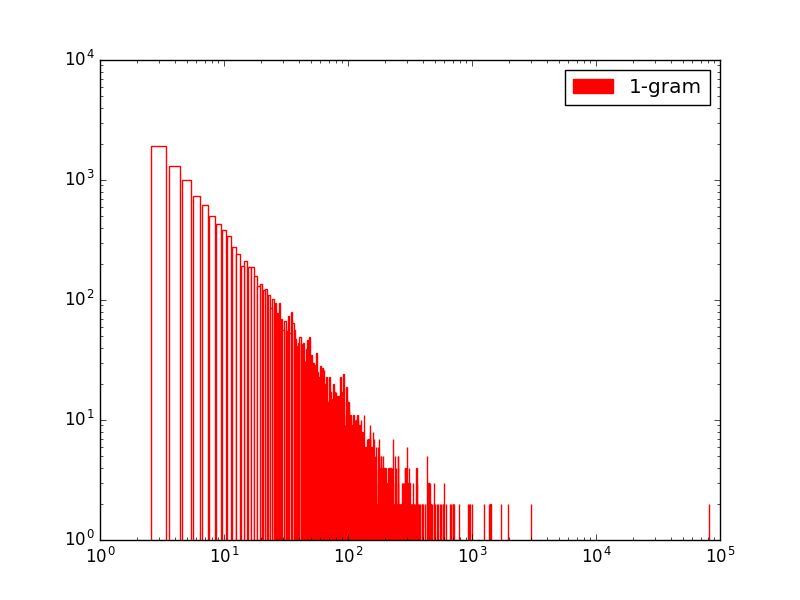
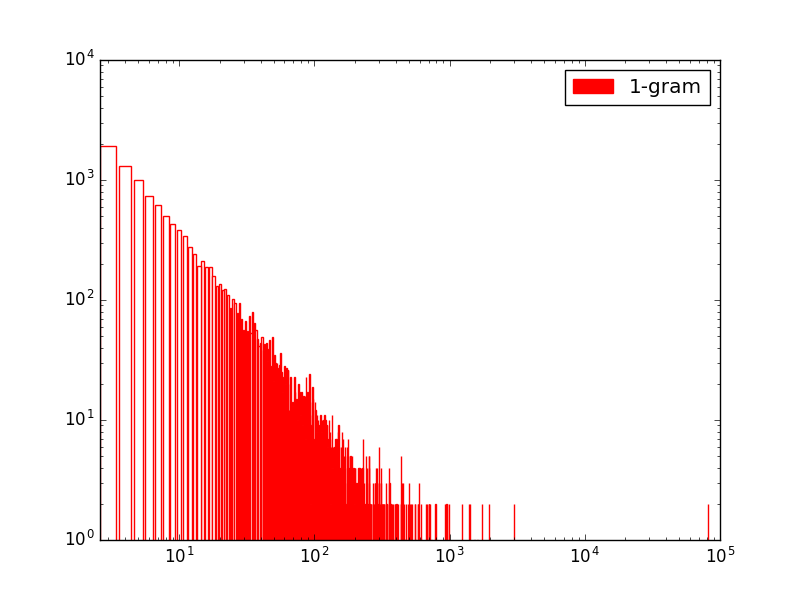
xmin=0

diff --git a/printer.py b/printer.py
@@ -56,6 +56,7 @@ def plot_ngram(ngram_dict, gram, color="purple"):
     plt.figure()
     plt.bar(x, y, color="white", edgecolor=color, align="center", log=True)
     plt.xscale('log')
+    plt.xlim(xmin=0)
 
     # The legend
     patch = mpatches.Patch(color=color, label=str(gram)+'-gram')
@@ -92,6 +93,7 @@ def plot_ngram_list(ngram_dict_list, gram_list, color_list):
         patch_list.append(patch)
     plt.legend(handles=patch_list)
     plt.xscale('log')
+    plt.xlim(xmin=0)
 
     # Save the plot
     file_path = "n_gram_plot/all_gram_count_histogram.png"

diff --git a/ngram_count.py b/ngram_count.py
@@ -17,7 +17,7 @@ if __name__ == '__main__':
     for n in range(1, 4):
         # n_gram
         gram = 4-n
-        print("Building "+str(gram)+"_gram dictionnary")
+        print("Building "+str(gram)+"_gram histogram")
         # Buid the n_gram dict
         n_gram_dict = n_gram(train_word_array, gram)
         # Build the frequency of frequency
@@ -30,3 +30,4 @@ if __name__ == '__main__':
 
     # Plot all the n_gram together
     plot_ngram_list(n_gram_dict_list, gram_list, color_list)
+    print("All histograms printed")
